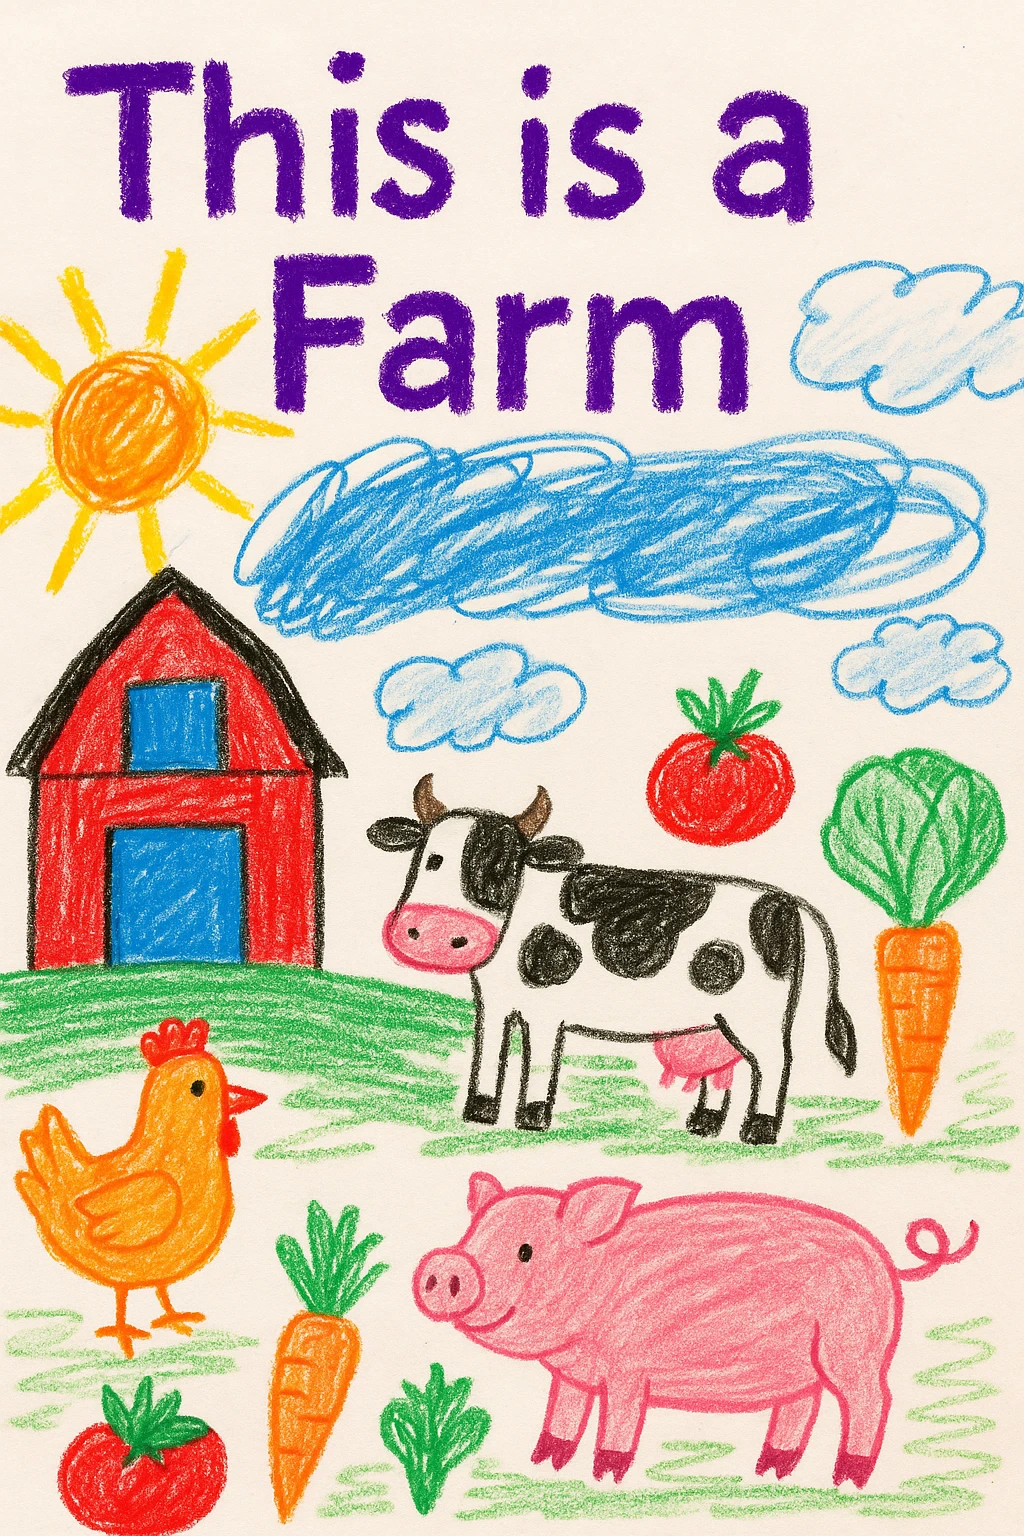
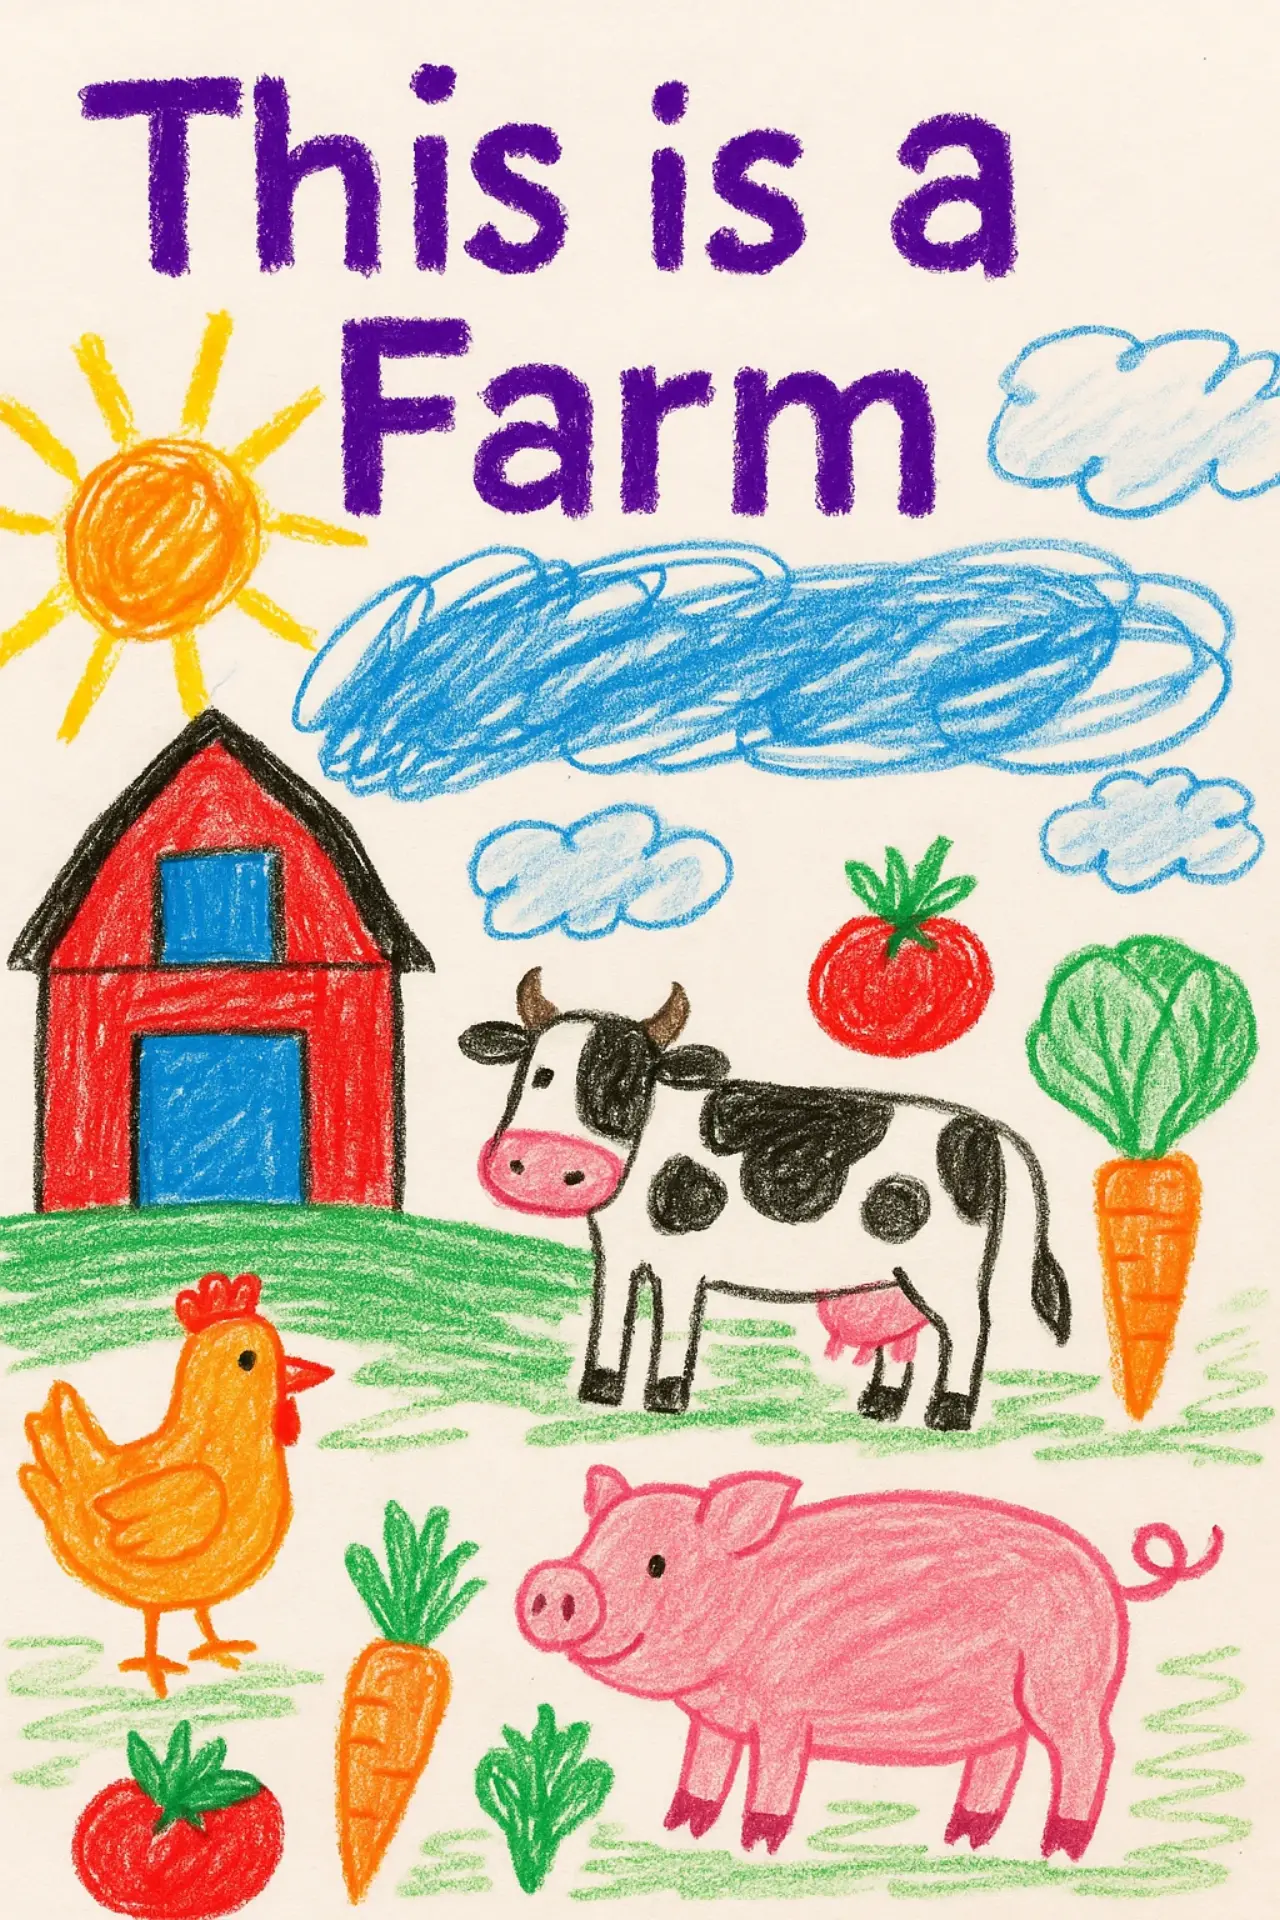
Remove next-themes dependency and clean up related files
- Deleted the next-themes package from package.json and pnpm-lock.yaml to streamline dependencies.
- Removed the associated entries in pnpm-lock.yaml for a cleaner lock file.
- Deleted the unused dextools vector logo file from the public directory.
- Updated the App component's main element to adjust overflow behavior and improve layout consistency.

diff --git a/src/App.tsx b/src/App.tsx
@@ -39,7 +39,7 @@ export default function App() {
   }, []);
 
   return (
-    <main className="relative min-h-screen w-full flex flex-col items-center justify-center bg-gradient-to-b from-sky-300 from-40% to-green-300 to-70% overflow-x-hidden animate-in fade-in-0 slide-in-from-bottom-4 duration-700">
+    <main className="relative h-screen w-full flex flex-col items-center justify-center bg-gradient-to-b from-sky-300 from-40% to-green-300 to-70% overflow-hidden animate-in slide-in-from-top-4 fade-in-0 duration-700">
       {/* Scene: locked ratio = same reference as the image */}
       <div className="relative w-full max-w-2xl aspect-[2/3] my-22">
         {/* The drawing becomes a real element, not a CSS background */}
